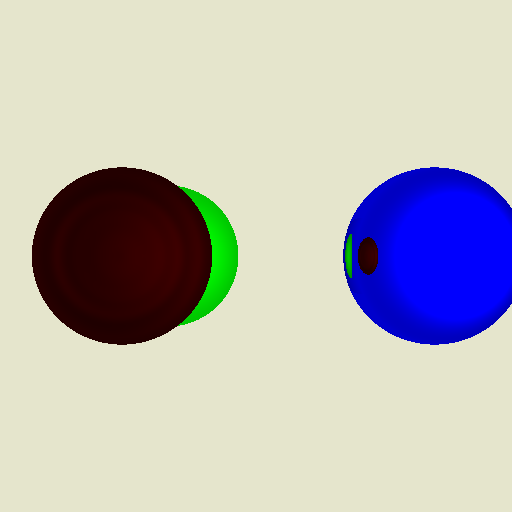
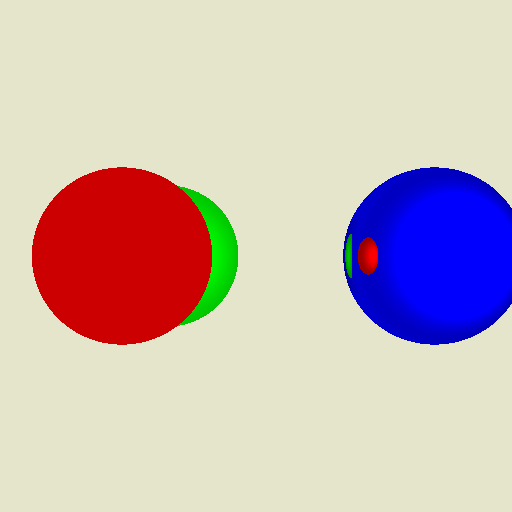
Almost done, detect bug

Changed region(s): [[0.0625, 0.3125, 0.4375, 0.6875], [0.6875, 0.4688, 0.75, 0.5312]]

diff --git a/Ex.6/Primitives/ray.py b/Ex.6/Primitives/ray.py
@@ -130,6 +130,7 @@ class Ray:
             if hits[0] is None:
                 continue
             for hit in hits:
+                # if (closest_hit is None or hit.distance < closest_hit.distance) and (hit.distance > .05 ):
                 if (closest_hit is None or hit.distance < closest_hit.distance) and (hit.distance > .05 ):
                     closest_hit = hit
                 # elif hit.distance < closest_hit.distance and hit.primitive != closest_hit.primitive:
@@ -139,7 +140,7 @@ class Ray:
 
     ## Iterates through list of primitives and lights and calculates pixel color
     def get_pixel_color(self, primitives, lights, recursion_number=0):
-        recursion_limit = 8
+        recursion_limit = 1
 
         hit = self.get_pixel_hit(primitives)
 
@@ -191,21 +192,22 @@ class Ray:
 
             if recursive_color is not None:
                 return [recursive_color[i] * [r, g, b][i] for i in range(3)]
-
+        
+        # Refractive material
         elif hit.primitive.material.material_type is MaterialType.Refractive and recursion_number < recursion_limit:
             normal = hit.primitive.get_normal(hit.point).normalized()
             lambda_s = self.medium_refractive_index
             lambda_t = hit.primitive.material.index_of_refraction
 
-            refraction = lambda_s * (self.direction - normal * (self.direction * normal)) / lambda_t
-            refraction =refraction - normal * np.sqrt(1 - lambda_s**2 * (1 - (self.direction * normal)**2) / lambda_t**2)
+            refraction = (lambda_s * (self.direction - normal*(self.direction.cross(normal)))) / lambda_t - normal * np.sqrt(1 - (lambda_s**2 * (1 - (self.direction.cross(normal))*(self.direction.cross(normal)))) / lambda_t**2)
+
             recursive_ray = Ray(origin=hit.point, direction=refraction, medium_refractive_index=lambda_t)
 
             recursion_number += 1
-            recursive_color = recursive_ray.get_pixel_color(primitives, lights, recursion_number)
-
-            if recursive_color is not None:
-                return [recursive_color[i] * [r, g, b][i] for i in range(3)]
+            return recursive_ray.get_pixel_color(primitives, lights, recursion_number)
+            # recursive_color = recursive_ray.get_pixel_color(primitives, lights, recursion_number)
+            # if recursive_color is not None:
+            #     return [recursive_color[i] * [r, g, b][i] for i in range(3)]
 
 
         return [hit.primitive.get_texture_color(hit.point)[i] * [r, g, b][i] for i in range(3)]

diff --git a/Ex.6/main.py b/Ex.6/main.py
@@ -15,10 +15,10 @@ from texture import *
 p_cam = PerspectiveCamera(position=Vec3(0, 0, 0), view_direction=Vec3(0, 0, 1), width=512, height=512, fov=40)
 o_cam = OrthogonalCamera(position=Vec3(0, 0, 0), view_direction=Vec3(0, 0, 1), width=512, height=512, pixel_size=(0.01, 0.01))
 
-texture = Texture('/home/werdon4/Desktop/FGK/Ex.6/sample_texture.png')
+texture = Texture('sample_texture.png')
 material_dull = Material(material_type=MaterialType.Dull)
 material_reflective = Material(material_type=MaterialType.Reflective)
-material_refractive = Material(material_type=MaterialType.Refractive, index_of_refraction=1.52)
+material_refractive = Material(material_type=MaterialType.Refractive, index_of_refraction=1.2)
 
 primitives1 = [
     Sphere(Vec3(-1.5, 0, 12), 1.2, [0, 1, 0], material_dull),
